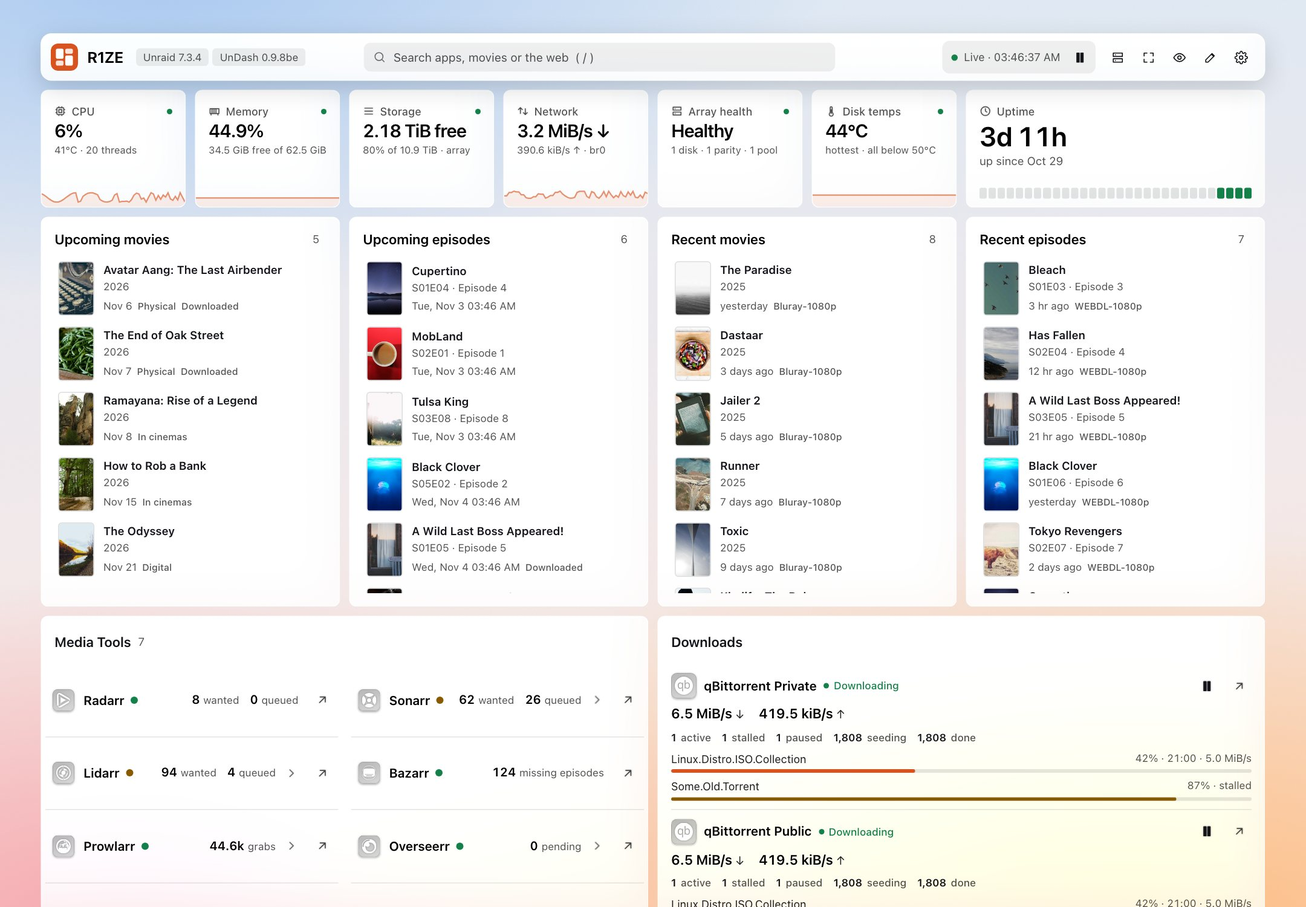
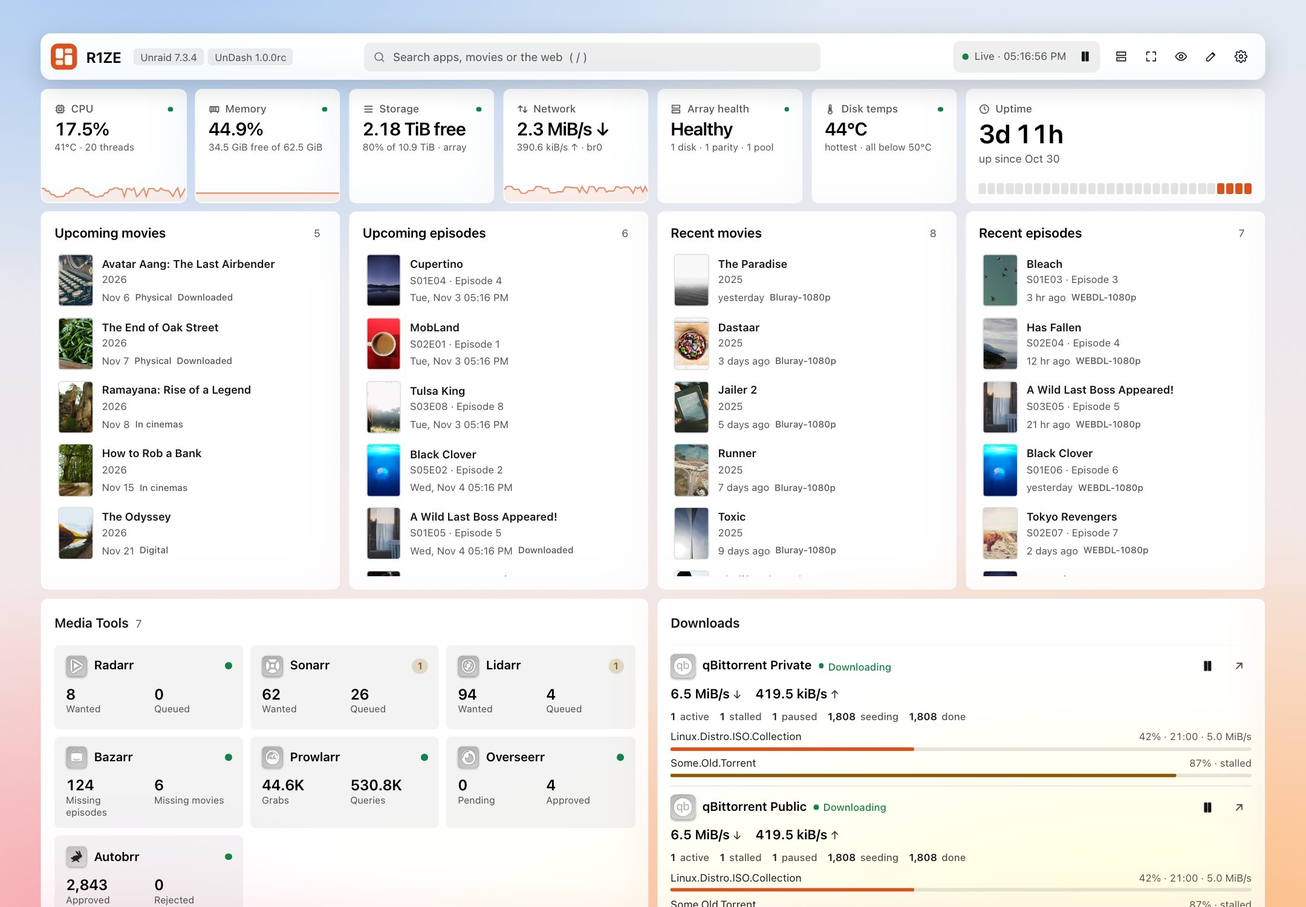
Beta 1.0.0rc: saved keys stay with their address, fresh README and screenshots

diff --git a/tests/run.php b/tests/run.php
@@ -1583,6 +1583,31 @@ for ($i = 0; $i < 6; $i++) und_login_failed('198.51.100.1');
 $g = und_login_seen(); t('wrong passwords are counted for the alert', $g['n'] === 6 && $g['ip'] === '198.51.100.1');
 foreach (glob(UND_TMP . '/login-*') ?: [] as $f) @unlink($f);
 
+echo "\n--- saved keys stay with their address\n";
+$svc = function ($id, $name, $url, $key) { return ['id' => $id, 'name' => $name, 'url' => $url, 'key' => $key, 'username' => '', 'password' => '', 'options' => []]; };
+$oldc = ['groups' => [['services' => [$svc('aaaaaaaa', 'Radarr', 'http://10.0.0.2:7878', '{{RADARR_API_KEY}}'), $svc('bbbbbbbb', 'Hooked', 'http://{{SERVER_IP}}:9000', '{{HOOK_KEY}}')]]]];
+$e = ['RADARR_API_KEY' => 'abc', 'HOOK_KEY' => 'def', 'SERVER_IP' => '10.0.0.3'];
+$mv = function ($id, $url, $key = null, $creds = []) use ($oldc, $svc, $e) { $c = $oldc; foreach ($c['groups'][0]['services'] as &$x) if ($x['id'] === $id) { $x['url'] = $url; if ($key !== null) $x['key'] = $key; } return und_creds_moved($c, $oldc, $creds, $e); };
+t('the same address is fine', $mv('aaaaaaaa', 'http://10.0.0.2:7878/base') === null);
+t('a saved key cannot follow a new address', $mv('aaaaaaaa', 'http://198.51.100.1:7878') === 'Radarr');
+t('a new port counts as a new address', $mv('aaaaaaaa', 'http://10.0.0.2:9999') === 'Radarr');
+t('typing the key again allows it', $mv('aaaaaaaa', 'http://198.51.100.1:7878', null, ['aaaaaaaa' => ['key' => 'typed-again']]) === null);
+t('a reference typed instead does not', $mv('aaaaaaaa', 'http://198.51.100.1:7878', null, ['aaaaaaaa' => ['key' => '{{RADARR_API_KEY}}']]) === 'Radarr');
+t('an address written with a shared value is the same address', $mv('bbbbbbbb', 'http://10.0.0.3:9000') === null);
+$c2 = $oldc; $c2['groups'][0]['services'][] = $svc('cccccccc', 'Mine', 'http://198.51.100.1', '{{RADARR_API_KEY}}');
+t('a new app cannot borrow another app\'s key', und_creds_moved($c2, $oldc, [], $e) === 'Mine');
+$c2 = $oldc; $c2['groups'][0]['services'][] = $svc('cccccccc', 'Mine', 'http://198.51.100.1', '{{BRAND_NEW}}');
+t('a new app with its own key is fine', und_creds_moved($c2, $oldc, [], $e) === null);
+$c2 = $oldc; $c2['groups'][0]['services'][0]['key'] = ''; $h = $svc('cccccccc', 'Hdr', 'http://198.51.100.1', ''); $h['options']['headers'] = ['X-Api-Key' => '{{RADARR_API_KEY}}']; $c2['groups'][0]['services'][] = $h;
+t('nor through a custom header', und_creds_moved($c2, $oldc, [], $e) === 'Hdr');
+t('more secrets are hidden in logged addresses', strpos(und_redact('http://x/a?password=hunter2&access_token=abc&q=ok'), 'hunter2') === false && strpos(und_redact('http://x/a?access_token=abcdef'), 'abcdef') === false && strpos(und_redact('http://x/a?q=ok'), 'q=ok') !== false);
+$_SERVER['REMOTE_ADDR'] = '172.18.0.5'; $_SERVER['HTTP_X_FORWARDED_PROTO'] = 'https'; unset($_SERVER['HTTPS']);
+t('X-Forwarded-Proto counts for nothing by default', !und_https());
+putenv('UNDASH_TRUSTED_PROXIES=172.18.0.0/16');
+t('from a trusted proxy cookies are Secure', und_https());
+$_SERVER['REMOTE_ADDR'] = '198.51.100.3'; t('not from anyone else', !und_https());
+putenv('UNDASH_TRUSTED_PROXIES'); unset($_SERVER['REMOTE_ADDR'], $_SERVER['HTTP_X_FORWARDED_PROTO']);
+
 rmrf($SANDBOX);
 
 echo "\n$pass passed, $fail failed\n";

diff --git a/src/include/api.php b/src/include/api.php
@@ -19,7 +19,7 @@ function fail($m, $code = 400) { out(['error' => $m], $code); }
 if (($_SERVER['REQUEST_METHOD'] ?? '') !== 'POST') fail('POST only.', 405);
 $action = (string)($_POST['action'] ?? '');
 $P = function ($k, $d = '') { return isset($_POST[$k]) && is_string($_POST[$k]) ? $_POST[$k] : $d; };
-$J = function ($k) { $v = json_decode((string)($_POST[$k] ?? ''), true); return is_array($v) ? $v : null; };
+$J = function ($k) { $v = is_string($_POST[$k] ?? null) ? json_decode($_POST[$k], true) : null; return is_array($v) ? $v : null; };
 
 /** A background OS update check when the cached result is old: the page never waits for the update server. */
 function api_os_autocheck(array $cfg, array $os) {
@@ -219,6 +219,7 @@ switch ($action) {
     if (!$cfg || !isset($cfg['groups'])) fail('Nothing to save.');
     $old = und_load_config(); $env = und_env();
     $norm = und_creds_apply(und_normalize($cfg), $old, $J('creds') ?: [], $env);
+    if ($moved = und_creds_moved($norm, $old, $J('creds') ?: [], $env)) fail('Type the key or password for ' . $moved . ' again: a saved one is only sent to the address it was saved for.');
     if (isset($_POST['shared'])) $env = und_shared_apply($env, $old, $norm, $J('shared') ?: []);
     if (!und_save_config($norm)) fail('Could not write the configuration directory. Check that ' . und_store_dir() . ' is writable.', 500);
     if (!und_env_write($env)) fail('Could not write the .env file in ' . und_store_dir() . '.', 500);
@@ -267,6 +268,7 @@ switch ($action) {
     if (!$cfg || !preg_match('/^[a-f0-9]{8}$/', $id)) fail('Nothing to test.');
     $env = und_env(); $old = und_load_config();
     $norm = und_creds_apply(und_normalize($cfg), $old, $J('creds') ?: [], $env);
+    if ($moved = und_creds_moved($norm, $old, $J('creds') ?: [], $env)) fail('Type the key or password for ' . $moved . ' again: a saved one is only sent to the address it was saved for.');
     if (isset($_POST['shared'])) $env = und_shared_apply($env, $old, $norm, $J('shared') ?: []);
     $GLOBALS['UND_TEST_SECRETS'] = ['vars' => array_diff_key($env, array_flip(UND_ENV_RESERVED)), 'svc' => [], 'unraid' => []];
     out(und_fetch_service($norm, $id));
@@ -277,6 +279,7 @@ switch ($action) {
     if (!$cfg || !preg_match('/^[a-f0-9]{8}$/', $id)) fail('Nothing to read.');
     $env = und_env(); $old = und_load_config();
     $norm = und_creds_apply(und_normalize($cfg), $old, $J('creds') ?: [], $env);
+    if ($moved = und_creds_moved($norm, $old, $J('creds') ?: [], $env)) fail('Type the key or password for ' . $moved . ' again: a saved one is only sent to the address it was saved for.');
     if (isset($_POST['shared'])) $env = und_shared_apply($env, $old, $norm, $J('shared') ?: []);
     $GLOBALS['UND_TEST_SECRETS'] = ['vars' => array_diff_key($env, array_flip(UND_ENV_RESERVED)), 'svc' => [], 'unraid' => []];
     out(und_customapi_probe($norm, $id));

diff --git a/tests/docker_auth_test.php b/tests/docker_auth_test.php
@@ -86,6 +86,22 @@ t('wrong current passwords are throttled', (function () { apicall('password_set'
   for ($i = 0; $i < 5; $i++) apicall('password_remove', ['current' => 'wrong', 'confirm' => 'yes']);
   return apicall('password_remove', ['current' => 'third long password', 'confirm' => 'yes'])['code'] === 429 && und_auth_kind() === 'file'; })());
 
+// the real Save, through the whole API: settings come back the way the page sends them
+$cfg = apicall('settings')['j']['config'];
+t('settings as the page sees them save unchanged', apicall('save', ['config' => json_encode($cfg), 'creds' => '{}'])['code'] === 200);
+$cfg['groups'][] = ['id' => 'abcd0001', 'name' => 'Test', 'columns' => 3, 'header' => true, 'section' => false, 'services' => [['id' => 'abcd1234', 'name' => 'Radarr', 'type' => 'radarr', 'url' => 'http://10.0.0.2:7878', 'href' => '', 'icon' => '', 'zone' => 'arr', 'options' => (object)[]]]];
+$r = apicall('save', ['config' => json_encode($cfg), 'creds' => json_encode(['abcd1234' => ['key' => 'first-key-value']])]);
+t('an app and its key save', $r['code'] === 200, json_encode($r['j']));
+$cfg = apicall('settings')['j']['config'];
+t('saving again with the key kept works', apicall('save', ['config' => json_encode($cfg), 'creds' => '{}'])['code'] === 200);
+foreach ($cfg['groups'] as &$g) foreach ($g['services'] as &$sv) if ($sv['id'] === 'abcd1234') $sv['url'] = 'http://198.51.100.1:7878';
+unset($g, $sv);
+$r = apicall('save', ['config' => json_encode($cfg), 'creds' => '{}']);
+t('a new address with the kept key is refused', $r['code'] === 400 && strpos((string)$r['j']['error'], 'Radarr') !== false, json_encode($r['j']));
+t('so is Test, which would send it there', apicall('test', ['id' => 'abcd1234', 'config' => json_encode($cfg), 'creds' => '{}'])['code'] === 400);
+t('and the card builder', apicall('probe', ['id' => 'abcd1234', 'config' => json_encode($cfg), 'creds' => '{}'])['code'] === 400);
+t('typing the key again moves it', apicall('save', ['config' => json_encode($cfg), 'creds' => json_encode(['abcd1234' => ['key' => 'second-key-value']])])['code'] === 200);
+
 proc_terminate($proc);
 exec('rm -rf ' . escapeshellarg($SB));
 echo "\n$pass passed, $fail failed\n";

diff --git a/src/include/auth.php b/src/include/auth.php
@@ -39,7 +39,7 @@ function und_sess_new($how) {
   $sid = bin2hex(random_bytes(32));
   $s = ['exp' => time() + UND_SESS_TTL, 'csrf' => bin2hex(random_bytes(24)), 'how' => $how, 'at' => time()];
   und_write_json(und_sess_file($sid), $s, true);
-  setcookie(und_cookie('undash_sid'), $sid, ['expires' => 0, 'path' => '/', 'httponly' => true, 'samesite' => 'Strict', 'secure' => !empty($_SERVER['HTTPS'])]);
+  setcookie(und_cookie('undash_sid'), $sid, ['expires' => 0, 'path' => '/', 'httponly' => true, 'samesite' => 'Strict', 'secure' => und_https()]);
   // old sessions are removed now and then
   if (random_int(1, 20) === 1) foreach (glob(und_sess_dir() . '/*.json') ?: [] as $f) if (filemtime($f) < time() - UND_SESS_TTL - 3600) @unlink($f);
   return $s;
@@ -253,10 +253,15 @@ function und_login_check($ip, $pw) {
   if ($lk) fclose($lk);
   return $ok ? 'ok' : 'wrong';
 }
+function und_proxies() { return array_filter(preg_split('/[\s,]+/', (string)(getenv('UNDASH_TRUSTED_PROXIES') ?: (und_env()['UNDASH_TRUSTED_PROXIES'] ?? '')))); }
+/** Cookies are marked Secure on HTTPS, which includes a trusted proxy that took the HTTPS for us. */
+function und_https() {
+  if (!empty($_SERVER['HTTPS'])) return true;
+  return strtolower((string)($_SERVER['HTTP_X_FORWARDED_PROTO'] ?? '')) === 'https' && und_ip_in((string)($_SERVER['REMOTE_ADDR'] ?? ''), und_proxies());
+}
 /** The visitor's address. X-Forwarded-For can be typed by anyone, so it counts only from a proxy named in UNDASH_TRUSTED_PROXIES. */
 function und_client_ip() {
-  $ip = (string)($_SERVER['REMOTE_ADDR'] ?? '');
-  $list = array_filter(preg_split('/[\s,]+/', (string)(getenv('UNDASH_TRUSTED_PROXIES') ?: (und_env()['UNDASH_TRUSTED_PROXIES'] ?? ''))));
+  $ip = (string)($_SERVER['REMOTE_ADDR'] ?? ''); $list = und_proxies();
   if (!$list || !und_ip_in($ip, $list)) return $ip;
   foreach (array_reverse(explode(',', (string)($_SERVER['HTTP_X_FORWARDED_FOR'] ?? ''))) as $x) {
     $x = trim($x);

diff --git a/src/include/store.php b/src/include/store.php
@@ -205,6 +205,30 @@ function und_creds_apply(array $cfg, array $old, array $creds, array &$env) {
   return $cfg;
 }
 
+/**
+ * A saved key goes only to the address it was saved for. Without this, anyone who can edit an app (or use a dashboard with no
+ * password) could point it at their own server, press Test and read the key there. Returns the name of the first app that
+ * would send a credential somewhere new; typing the value again is fine, and so is a brand new value.
+ */
+function und_creds_moved(array $cfg, array $old, array $creds, array $env) {
+  $host = function ($u) use ($env) { $p = parse_url(und_resolve((string)$u, array_change_key_case($env, CASE_UPPER))); return strtolower(($p['host'] ?? '') . ':' . ($p['port'] ?? '')); };
+  $refs = function ($s) {
+    $out = [];
+    foreach (array_keys(UND_CRED_FIELDS) as $f) if ($r = und_ref_name($s[$f] ?? '')) $out[$r] = $f;
+    $opt = (array)($s['options'] ?? []);        // an empty options set is an object once normalized
+    foreach ((array)($opt['headers'] ?? []) as $v) if (is_string($v) && $r = und_ref_name($v)) $out[$r] = '';
+    return $out;
+  };
+  $seen = [];
+  foreach ($old['groups'] ?? [] as $g) foreach ($g['services'] as $s) foreach ($refs($s) as $r => $f) $seen[$r][$host($s['url'] ?? '')] = 1;
+  foreach ($cfg['groups'] ?? [] as $g) foreach ($g['services'] as $s) foreach ($refs($s) as $r => $f) {
+    if (!isset($seen[$r]) || isset($seen[$r][$host($s['url'] ?? '')])) continue;
+    $in = $f !== '' ? ($creds[$s['id']][$f] ?? UND_KEEP) : UND_KEEP;
+    if ($in === UND_KEEP || und_ref_name($in)) return (string)$s['name'];
+  }
+  return null;
+}
+
 /* ---------- conversion from the old files ---------- */
 
 /** Older versions: config.json + secrets.json (+ custom.css, ignores.json). Converted once; the old files go to data/legacy/. */

diff --git a/src/standalone/router.php b/src/standalone/router.php
@@ -37,7 +37,7 @@ function sa_unraid_base() { $h = und_req_host(); return $h === '' ? '' : 'http:/
 /** The login / setup page (Docker version). Plain HTML, no script, so the strict CSP still applies. */
 function sa_form_page($title, $intro, $fields, $error = '', $skip = false) {
   $pre = bin2hex(random_bytes(16));
-  setcookie(und_cookie('undash_pre'), $pre, ['expires' => 0, 'path' => '/', 'httponly' => true, 'samesite' => 'Strict', 'secure' => !empty($_SERVER['HTTPS'])]);
+  setcookie(und_cookie('undash_pre'), $pre, ['expires' => 0, 'path' => '/', 'httponly' => true, 'samesite' => 'Strict', 'secure' => und_https()]);
   $e = function ($x) { return htmlspecialchars((string)$x, ENT_QUOTES, 'UTF-8'); };
   header('Content-Type: text/html; charset=utf-8'); header('Cache-Control: no-store');
   echo '<!doctype html><html lang="en"><head><meta charset="utf-8"><meta name="viewport" content="width=device-width,initial-scale=1"><title>UnDash · ', $e($title), '</title>',

diff --git a/src/include/guest.php b/src/include/guest.php
@@ -101,7 +101,7 @@ function und_guest_sess_new() {
   $sid = bin2hex(random_bytes(32));
   $s = ['exp' => time() + UND_SESS_TTL, 'csrf' => bin2hex(random_bytes(24)), 'how' => 'guest', 'at' => time(), 'link' => hash('sha256', und_guest_token())];
   und_write_json(und_sess_file($sid), $s, true);
-  setcookie(und_guest_cookie(), $sid, ['expires' => 0, 'path' => '/guest/', 'httponly' => true, 'samesite' => 'Strict', 'secure' => !empty($_SERVER['HTTPS'])]);
+  setcookie(und_guest_cookie(), $sid, ['expires' => 0, 'path' => '/guest/', 'httponly' => true, 'samesite' => 'Strict', 'secure' => und_https()]);
   return $s;
 }
 

diff --git a/src/include/lib.php b/src/include/lib.php
@@ -149,7 +149,7 @@ function und_redact($s, array $extra = []) {
   $s = (string)$s;
   foreach ($extra as $x) if (is_string($x) && strlen($x) >= 6) $s = str_replace($x, '[redacted]', $s);
   $s = preg_replace('#(https?://)[^/\s:@]+:[^/\s@]+@#i', '$1[redacted]@', $s);
-  $s = preg_replace('/([?&](?:apikey|api_key|X-Plex-Token|token|key)=)[^&\s"]+/i', '$1[redacted]', $s);
+  $s = preg_replace('/([?&](?:apikey|api_key|api-key|X-Plex-Token|token|access_token|key|password|passwd|pass|secret|auth)=)[^&\s"]+/i', '$1[redacted]', $s);
   return $s;
 }
 

diff --git a/README.md b/README.md
@@ -16,7 +16,9 @@ A compact dashboard for Unraid. System health, alerts, media, Arr apps, download
 - **History charts**: click CPU, Memory, Network, Storage or Disk temps for the last hour, day, week or month. A reading is kept every minute.
 - **Media**: upcoming and recently added movies and episodes from Radarr and Sonarr.
 - **Arr Stack**, **Downloads** (qBittorrent, [qui](https://github.com/autobrr/qui), SABnzbd), **Now playing** (Plex, Emby, Jellyfin, Tautulli) and **Requests** (Overseerr / Jellyseerr, with approve and decline).
-- **Containers and VMs**: start, stop, restart, update and logs from one gear menu, with CPU and memory per container. Click an icon or name to open its web UI.
+- **Containers and VMs**: start, stop, restart, update and logs from one gear menu, with CPU and memory per container. Click an icon or name to open its web UI. A badge shows which containers have an update; update from there, skip that version or ignore that container.
+- **Your own layout**: move and resize every card in place, split the dashboard into pages, and let **Smart arrange** line everything up. Edit mode also has the theme, navbar and other Appearance settings right beside your cards.
+- **Privacy**: **Hide sensitive details** covers names and titles with clean bars, for screenshots or a shared screen. A read-only **guest link** shows family and friends what you choose.
 - **Endpoint health**: HTTP status and latency of every app and container web UI.
 - **Search**: a list under the search box with your apps, containers and VMs, a web search and movies and series to request in Seerr. You choose which in Settings; the dashboard itself is never filtered.
 - Ten themes with light and dark versions, frosted-glass wallpapers, custom CSS. Works on phones too, and goes on the home screen with its own icon (full screen on iPhone; on Android that needs HTTPS).
@@ -82,6 +84,8 @@ docker run -d --name UnDash --restart unless-stopped -p 9099:9099 \
 
 To update, use **Update** in the Docker tab. UnDash shows a badge next to its version when a new release is out.
 
+**Try the release candidate:** the `ghcr.io/stiphr/undash:beta` image is the next version, now 1.0.0rc. Run it as a second container with its own port and config folder, so your stable dashboard stays as it is.
+
 ### Plugin
 
 **Plugins > Install Plugin**, paste the URL below and press **Install** (Unraid 6.12 or later):
@@ -134,9 +138,9 @@ Apps in the **Apps** section sit in groups. Open **Apps > Groups and apps** to a
 Containers and VMs need no setup: UnDash lists everything it finds on the server through the Unraid API (Docker version) or Unraid itself (plugin). Choose which ones the dashboard shows:
 
 1. Go to **Settings > Apps & cards**.
-2. Open **Containers > Containers and view** (or **Virtual machines > VMs and view**).
+2. Open **Containers** (or **Virtual machines**).
 3. Under **Containers on the dashboard**, tick the ones to show. **Select all**, **Running only** and **None** act on everything the filter box lists, so you can type `arr` and press **Select all** to add every Arr container at once. New containers show until you untick them.
-4. Per container you can also set a **display name**, an **icon**, **favorite** (star, also shown in the **Favorites** section) and whether it is **checked for updates** (arrow).
+4. Per container you can also set a **display name**, an **icon**, **favorite** (star, also shown in the **Favorites** section) and whether it is **checked for updates** (arrow). A display name changes the dashboard only; the container keeps its real name. On a phone this list is the place to rename, because edit mode is for larger screens.
 5. Pick the **layout** (compact grid, table or cards), **sort order**, what each container shows (CPU, memory, uptime, image) and which ones show by default: running, all, or **Selected**.
 6. Press **Save**.
 
@@ -144,28 +148,45 @@ The list stays empty until UnDash can read the server. In the Docker version, ch
 
 On the dashboard, the gear on each container or VM has the controls: start, stop, restart, update, logs, **Show in "Selected"** and **Hide from the dashboard**. Click the icon or name to open its web UI.
 
-### Arrange the sections (widgets)
+**Updates:** a container with an update has a small badge on its icon, and the **Updates** filter lists them all. Click the badge to choose:
 
-The dashboard is made of sections: **System**, **Alerts**, **Favorites**, **Media**, **Arr Stack**, **Downloads**, **Now playing**, **Requests**, **Endpoint health**, **Containers**, **Virtual machines** and **Apps**. Each app you add is a widget card inside one of them.
+- **Update now**: pulls the new image and recreates the container, as Unraid's Docker tab does.
+- **Skip this version**: hides this update, and the badge comes back by itself when a newer version comes out. The Docker version checks skipped images with their registry every 6 hours. Images you built yourself have no registry to ask, so use Ignore for those.
+- **Ignore updates for this container**: no badge until you turn it back on.
 
-1. In **Settings > Apps & cards**, under **Sections**:
-   - tick a section to show it, untick to hide it;
-   - drag it to change the order;
-   - set it to **Full width** or **Half width** (two half-width sections sit side by side on wide screens).
-2. Press the button on the right of a section to open its options:
+To hide all update badges, turn off **Show updates** in the container options.
 
-   | Section | Options |
-   |---|---|
-   | System | which tiles to show (CPU, memory, storage, network, health, disks, UPS…) and their order |
-   | Media | which columns (upcoming and recent movies and episodes), items per column, days ahead, which Radarr and Sonarr, posters or text only |
-   | Arr Stack / Downloads | their apps; how many active downloads per client |
-   | Requests | posters or text only |
-   | Apps | columns, groups, group names, shortcut links |
-   | Containers / Virtual machines | see [Add containers and VMs](#add-containers-and-vms) |
+### Arrange the dashboard
 
-3. Press **Save**.
+Press the pencil at the top right to edit the dashboard in place. Nothing changes until you press **Save**, and **Undo** steps back through your changes. Edit mode needs a screen wider than a phone.
 
-App widgets refresh every 15 seconds and the system every 2 seconds; change both in **Settings > General**.
+- **Move and resize:** drag a card, or drag its edges. Click a card for its options: name, which page it is on, and what it shows.
+- **Add** brings back cards you removed and adds new apps. **Pages** adds and names pages. **Appearance** has the theme, accent colour, background, navbar, card style and size beside your cards.
+- **Arrange** has the tools that do the work for you:
+
+  | Tool | What it does |
+  |---|---|
+  | Smart arrange | lays out every card on the page and fits each one to its content, so nothing is cut off |
+  | Smart arrange apps | lines up only the app cards in even rows; the other cards stay where they are |
+  | Fit all to content | keeps the layout and fixes the heights |
+  | Presets | ready-made layouts for the page, or for one set of cards |
+  | Snap up | closes the gaps when you move a card |
+  | Reset the layout | starts the page over |
+
+- **Size an app:** click an app card and choose **Small**, **Medium**, **Large** or **Wide**. **Use for all apps** gives them all that size.
+
+What each card shows is set in **Settings > Apps & cards** as well. Open a card there for its options:
+
+| Card | Options |
+|---|---|
+| System | which tiles to show (CPU, memory, storage, network, health, disks, UPS…) and their order |
+| Media | which columns (upcoming and recent movies and episodes), items per column, days ahead, which Radarr and Sonarr, posters or text only |
+| Arr Stack / Downloads | their apps; how many active downloads per client |
+| Requests | posters or text only |
+| Apps | groups, group names, shortcut links |
+| Containers / Virtual machines | see [Add containers and VMs](#add-containers-and-vms) |
+
+App cards refresh every 15 seconds and the system every 2 seconds; change both in **Settings > General**.
 
 ### Setup wizard and presets
 
@@ -177,7 +198,7 @@ Presets come in two sizes. Whole dashboards: **Everything**, **Media server**, *
 
 ### Pages
 
-Edit dashboard > **Pages** adds and names pages, and **Split my cards** makes a first set from what you have. Click a card to send it to another page. Each page keeps its own layout. With one page there are no tabs; with more, press 1 to 9 to switch. On a phone your pages replace the bottom tabs.
+Edit dashboard > **Pages** adds and names pages, and **Split my cards** makes a first set from what you have: **Media** gets the media lists, Arr Stack, Downloads, Now playing and Requests, and **Apps** gets your app cards, Containers and VMs. Click a card to send it to another page. Each page keeps its own layout. With one page there are no tabs; with more, press 1 to 9 to switch. On a phone your pages replace the bottom tabs; with no pages the tabs are Home, Media and Apps.
 
 ### Without an Unraid API key
 
@@ -188,6 +209,10 @@ If you run [Glances](https://github.com/nicolargo/glances), put its address in *
 ### Pick a look
 
 **Settings > Appearance**: theme, light / dark / system mode, accent colour, spacing and wallpaper. The accent can follow the theme, be a colour of your own, or be taken from the wallpaper: UnDash reads a small copy of the picture in your browser and picks its main colour, toned so buttons and links stay readable. For the background choose the theme's gradient, a plain colour, a picture from an address, or **your own picture** (JPEG, PNG or WebP; it is scaled down in your browser and kept in the configuration folder, never sent anywhere). **Settings > Advanced > Custom CSS** for anything else.
+
+### The navbar
+
+**Settings > Appearance > Navbar**, or Appearance in edit mode: choose the search bar's width (Normal, Wide, Full width or Hidden) and which items to show: logo, dashboard name, Unraid version, UnDash version, clock, alerts and buttons. **Stay on top when scrolling** keeps the bar in view. The browser tab icon follows your accent colour, or uses your own logo if you set one.
 
 ### Start from the example
 
@@ -230,8 +255,11 @@ Anyone with the link can open it, so share it like a password. Set a dashboard p
 
 - Every action is a fixed, validated operation on a known container or VM; nothing from the browser is run as a command.
 - The Docker image runs unprivileged as uid 99, with no Docker socket: everything goes through the Unraid API with the key you scope.
-- Sessions are HttpOnly with CSRF protection and a strict Content-Security-Policy; wrong passwords are rate-limited.
-- Port 9099 is plain HTTP. Use it on your LAN, or put a reverse proxy with HTTPS in front.
+- Sessions are HttpOnly with CSRF protection and a strict Content-Security-Policy.
+- Password guessing is slowed down hard: 5 wrong tries lock an address out for 15 minutes, and each lockout after that lasts twice as long, up to a day. Repeated wrong passwords raise an alert with the address. The commonest passwords are refused. If you lock yourself out, restart the container.
+- Keys and passwords stay on the server, and a saved one is only sent to the address it was saved for. Moving an app to a new address asks for its key again.
+- Port 9099 is plain HTTP. Use it on your LAN, or put a reverse proxy with HTTPS in front. Behind a proxy, set `UNDASH_TRUSTED_PROXIES` to its address, so each visitor counts on their own for wrong passwords and sign-in cookies are marked Secure.
+- **Set a dashboard password.** Without one, anyone who can reach the port can use the dashboard and control your containers, and none of the sign-in protection above applies.
 - Certificates of the apps UnDash reads are not checked by default (LAN apps mostly use self-signed ones). Set `UNDASH_TLS_VERIFY=1` in the container settings to check them.
 - Numbers typed into Settings are checked before they can be saved; a value the server still has to bring inside its limits is named after saving, never changed in silence.
 

diff --git a/docs/DOCKER.md b/docs/DOCKER.md
@@ -83,7 +83,7 @@ Environment variables:
 | `UNDASH_PORT` | 9099 | the port inside the container (normally leave it and change the host port) |
 | `PHP_CLI_SERVER_WORKERS` | 12 | parallel requests |
 | `UNDASH_TLS_VERIFY` | | `1` checks the certificate of every https:// app address (off by default: LAN apps mostly use self-signed certificates) |
-| `UNDASH_TRUSTED_PROXIES` | | addresses of your reverse proxies (IPs or CIDR, comma separated). Set it when UnDash sits behind one: each visitor then counts on their own for wrong passwords, instead of all sharing the proxy's address |
+| `UNDASH_TRUSTED_PROXIES` | | addresses of your reverse proxies (IPs or CIDR, comma separated). Set it when UnDash sits behind one: each visitor then counts on their own for wrong passwords, instead of all sharing the proxy's address, and sign-in cookies are marked Secure when the proxy says the visit is HTTPS |
 | `UNDASH_ALLOWED_HOSTS` | | host names that may open a dashboard that has no password (see the template) |
 
 ## 3. First start
